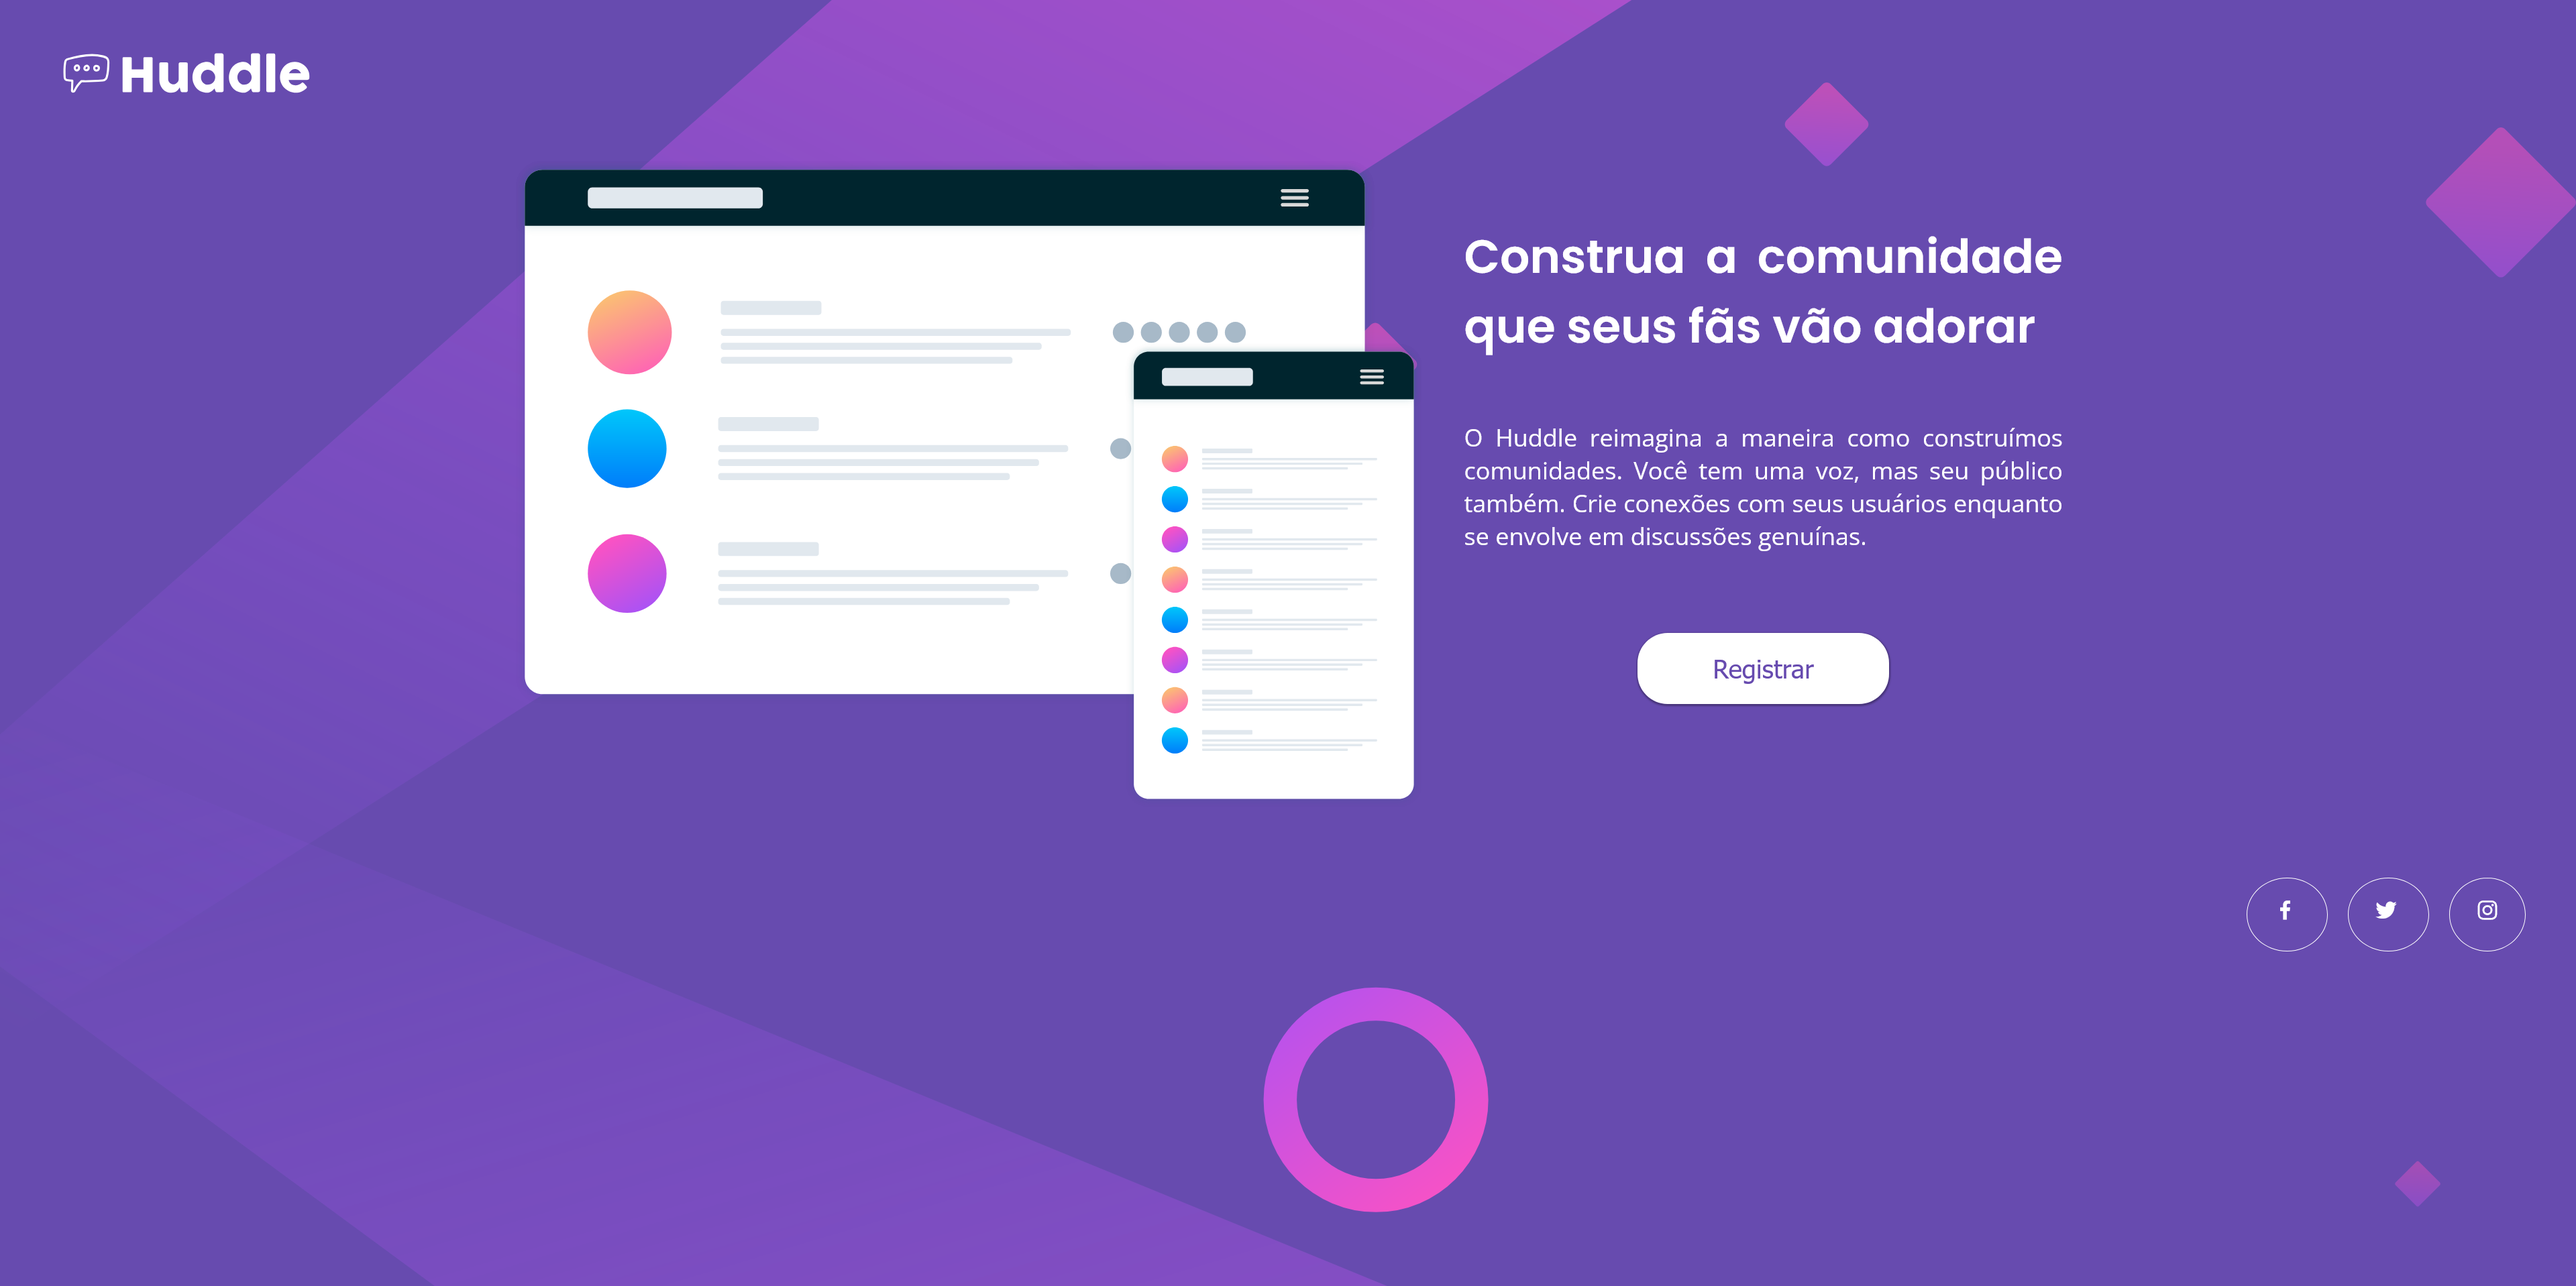
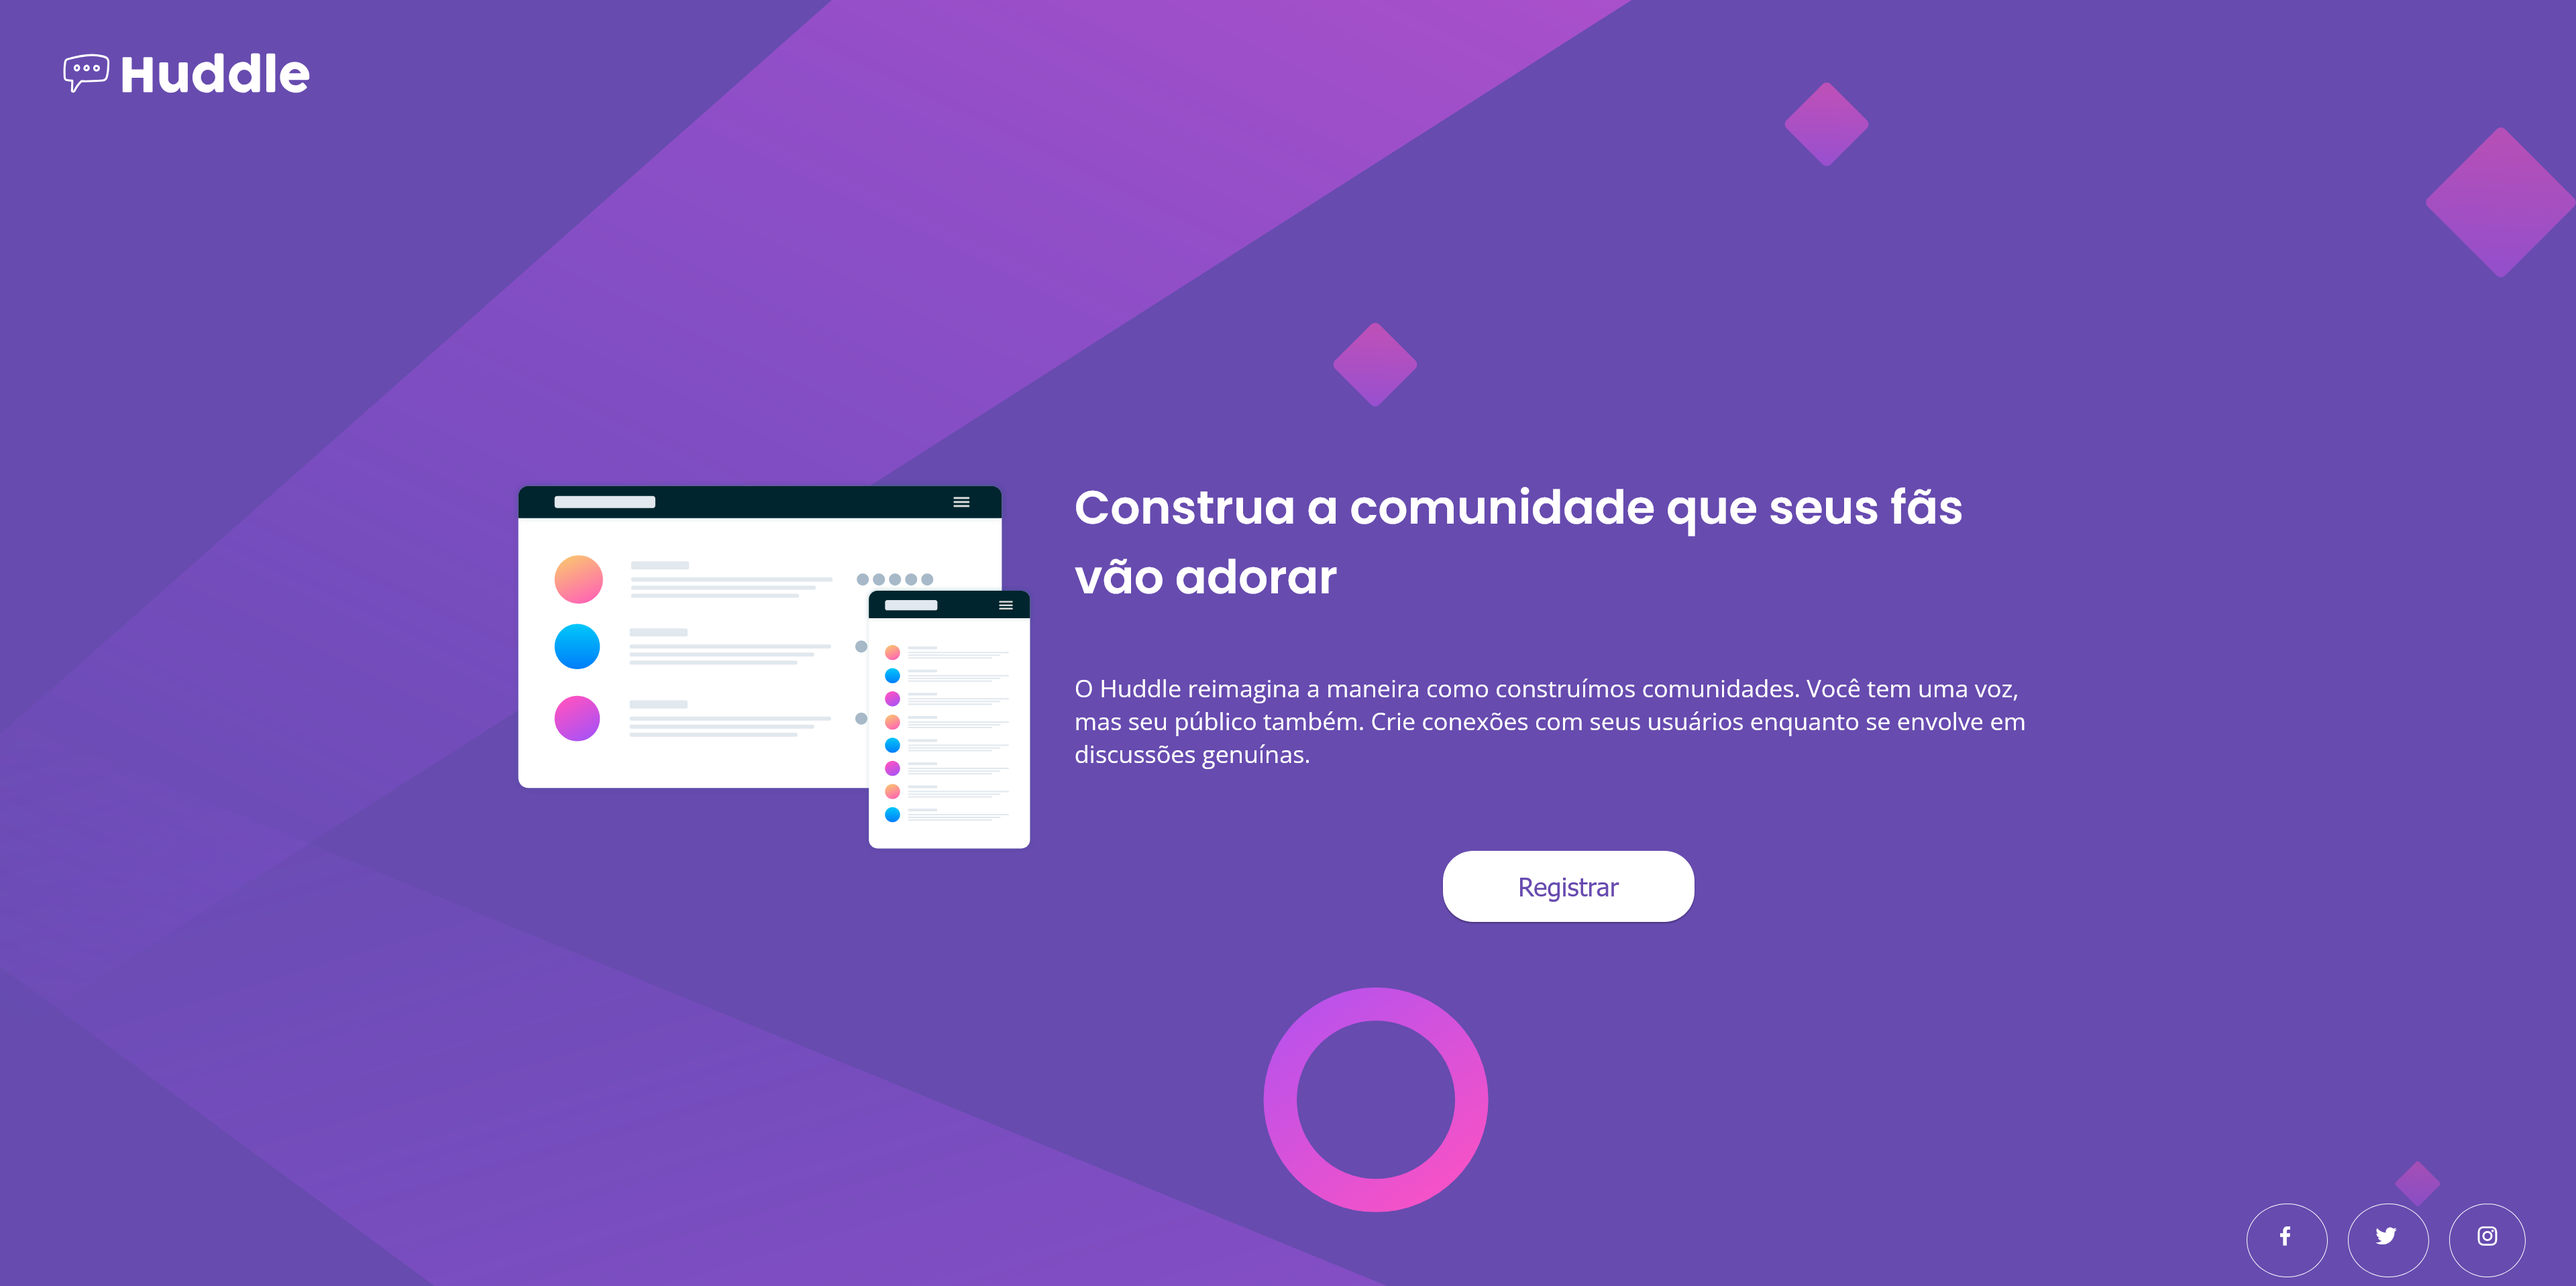
Update Style.css

diff --git a/estilo/style.css b/estilo/style.css
@@ -18,15 +18,17 @@ body {
     font-family: "Open Sans", sans-serif;
     font-weight: 400;
     color: white;
-    height: 100vh;
+    min-height: 100vh;
     background-color: var(--violet);
     background-image: url('../images/bg-mobile.svg');
     background-repeat: no-repeat;
     background-size: cover;
+    display: flex;
+    flex-direction: column;
 }
 
 header {
-    padding: 30px 20px;
+    padding: 2rem 1.25rem;
 }
 
 .logo {
@@ -35,27 +37,21 @@ header {
 
 .content {
     display: flex;
-    justify-content: flex-start;
-    align-items: flex-start;
-    flex-direction: row;
-    flex-wrap: wrap;
-    padding: 0px 20px 20px;
-    max-width: auto;
-    max-height: auto;
+    flex-direction: column;
+    flex-grow: 1;
+    justify-content: center;
+    align-items: center;
+    padding: 0 1.25rem;
 }
 
 .img-ilustracao {
     display: flex;
     justify-content: center;
     align-items: center;
-    max-width: auto;
-    max-height: auto;
-    margin: auto;
 }
 
 .img-ilustracao img {
     max-width: 100%;
-    max-height: auto;
 }
 
 .text-content {
@@ -63,67 +59,64 @@ header {
     justify-content: center;
     align-items: center;
     flex-direction: column;
-    max-width: auto;
-    max-height: auto;
 }
 
 .text-content h1 {
     font-family: "Poppins", sans-serif;
-    font-size: 1.3em;
+    font-size: 1.3rem;
     font-weight: 600;
     text-align: center;
-    padding-top: 20px;
+    padding-top: 1.25rem;
 }
 
 .text-content p {
-    font-size: 1em;
+    font-size: 1rem;
     text-align: center;
-    padding: 20px 0 40px 0;
+    padding: 1.25rem 0 2.5rem;
 }
 
 .register-button {
     background-color: white;
     color: var(--violet);
     border: none;
-    border-radius: 30px;
-    width: 200px;
-    height: auto;
-    padding: 20px;
-    font-size: 1.1em;
-    box-shadow: 0px 1px 1px 1px rgba(0, 0, 0, 0.3);
+    border-radius: 1.875rem;
+    width: 12.5rem;
+    padding: 1.25rem;
+    font-size: 1.1rem;
+    box-shadow: 0px 1px 1px rgba(0, 0, 0, 0.3);
 }
 
 .register-button:hover, .social-icons > a:hover {
     background-color: var(--softMagenta);
     color: white;
-    transition: 0.9s ease-in-out;
+    transition: 0.6s ease-in-out;
 }
 
 footer {
     display: flex;
     align-items: center;
     justify-content: center;
-    padding: 30px 0 30px 0;
+    padding: 2.5rem 0;
 }
 
 .social-icons a {
     color: white;
     border: 1px solid white;
-    border-radius: 100%;
-    padding: 10px 15px;
-    margin: 0 5px;
+    border-radius: 50%;
+    padding: 0.625rem 0.9375rem;
+    margin: 0 0.3125rem;
     text-align: center;
 }
 
 @media (min-width: 480px) {
     .text-content h1 {
-        font-size: 1.5em;
+        font-size: 1.5rem;
     }
 }
 
 @media (min-width: 768px) {
     header {
-        padding: 40px 0 40px 40px;
+        padding: 2.5rem;
     }
 
     .logo {
@@ -131,39 +124,39 @@ footer {
     }
 
     .content {
-        padding: 0px 40px 40px;
+        padding: 0 2.5rem;
     }
 
     .text-content h1 {
-        font-size: 2em;
+        font-size: 2rem;
     }
 
     .text-content p {
-        font-size: 1.2em;
+        font-size: 1.2rem;
     }
 
     .register-button {
-        width: 230px;
-        font-size: 1.3em;
+        width: 14.375rem;
+        font-size: 1.3rem;
     }
 
     footer {
-        padding: 40px 0;
+        padding: 2.5rem;
     }
 
     .social-icons a {
-        padding: 20px 25px;
-        margin: 0 5px;
+        padding: 1.25rem 1.5625rem;
+        margin: 0 0.625rem;
     }
 
     .social-icons i {
-        font-size: 20px;
+        font-size: 1.25rem;
     }
 }
 
 @media (min-width: 1024px) {
     header {
-        padding: 40px 0 50px 50px;
+        padding: 2.5rem 3.125rem;
     }
 
     .logo {
@@ -171,88 +164,87 @@ footer {
     }
     
     .content {
-        padding: 0px 50px 50px;
+        padding: 0 3.125rem;
+        flex-direction: row;
+        align-items: center;
+    }
+
+    .text-content {
+        padding-left: 2.5rem;
     }
 
     .text-content h1 {
-        font-size: 2.3em;
-        padding-top: 40px;
+        font-size: 2.3rem;
+        text-align: left;
+        padding-top: 2.5rem;
     }
 
     .text-content p {
-        font-size: 1.3em;
+        font-size: 1.3rem;
+        text-align: left;
     }
 
     .register-button {
-        width: 250px;
-        font-size: 1.5em;
+        width: 15.625rem;
+        font-size: 1.5rem;
     }
 
     footer {
-        padding: 50px 0;
+        padding: 3.125rem 0;
     }
 
     .social-icons a {
-        padding: 20px 20px;
-        margin: 0 10px;
+        padding: 1.25rem 1.25rem;
     }
 
     .social-icons i {
-        font-size: 20px;
+        font-size: 1.25rem;
     }
 }
 
 @media (min-width: 1200px) {
     body {
-        background-color: var(--violet);
         background-image: url('../images/bg-desktop.svg');
     }
     
     .content {
-        padding: 0px 50px 50px;
+        padding: 0 3.125rem;
         flex-wrap: nowrap;
     }
 
     .img-ilustracao {
-        justify-content: flex-start;
-        align-items: flex-start;
         flex: 2 1 auto;
-        max-width: auto;
     }
 
     .text-content {
-        padding-left: 40px;
+        padding-left: 2.5rem;
         flex: 1 2 auto;
-        max-width: 635px;
     }
 
     .text-content h1 {
-        font-size: 1.9em;
-        padding-top: 50px;
-        text-align: justify;
+        font-size: 1.9rem;
     }
 
     .text-content p {
-        font-size: 1.2em;
-        text-align: justify;
+        font-size: 1.2rem;
     }
 
     .register-button {
-        font-size: 1.4em;
+        font-size: 1.4rem;
     }
 
     footer {
         justify-content: flex-end;
         align-items: flex-end;
-        padding: 40px;
+        padding: 2.5rem;
     }
 
     .social-icons a {
-        padding: 20px 20px;
+        padding: 1.25rem 1.25rem;
     }
 
     .social-icons i {
-        font-size: 20px;
+        font-size: 1.25rem;
     }
 }
 
@@ -264,31 +256,26 @@ footer {
 
     .img-ilustracao {
         max-width: 900px;
-        flex: 1 1 auto;
     }
 
     .img-ilustracao img {
         width: 100%;
     }
-
-    .text-content {
-        flex: 1 1 auto;
-    }
     
     .text-content h1 {
-        font-size: 2.3em;
+        font-size: 2.3rem;
     }
 
     .text-content p {
-        font-size: 1.3em;
+        font-size: 1.3rem;
     }
 
     footer {
-        padding-bottom: 35px;
+        padding-bottom: 2.1875rem;
     }
 
     .social-icons i {
-        font-size: 25px;
+        font-size: 1.5625rem;
     }
 }
 
@@ -298,25 +285,24 @@ footer {
     }
     
     .text-content h1 {
-        font-size: 2.9em;
-        padding-top: 60px;
+        font-size: 2.9rem;
+        padding-top: 3.75rem;
     }
 
     .text-content p {
-        font-size: 1.5em;
-        padding: 60px 0 80px;
+        font-size: 1.5rem;
+        padding: 3.75rem 0 5rem;
     }
 
     .register-button {
-        font-size: 1.6em;
+        font-size: 1.6rem;
     }
 
     .social-icons a {
-        padding: 25px 25px;
-        margin: 0 10px;
+        padding: 1.5625rem 1.5625rem;
     }
 
     .social-icons i {
-        font-size: 25px;
+        font-size: 1.5625rem;
     }
 }
